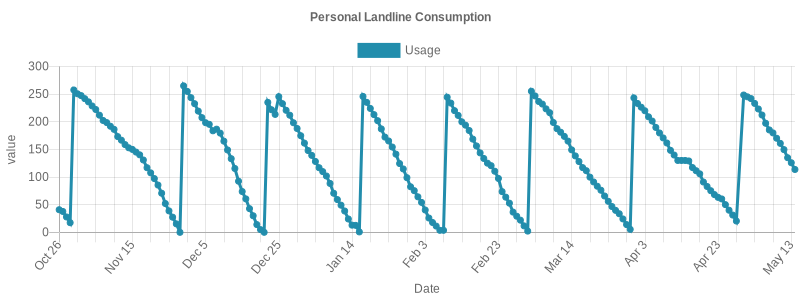
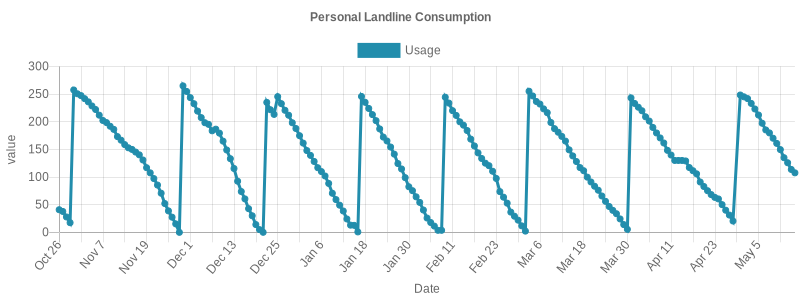
update logs

Changed region(s): [[0.0938, 0.24, 1.0, 0.9]]

diff --git a/quota-logs/README.md b/quota-logs/README.md
@@ -199,3 +199,4 @@
 ## Sun May 12 2024 00:35:13 GMT+0200|134.92/250
 ## Mon May 13 2024 00:34:49 GMT+0200|125.81/250
 ## Tue May 14 2024 00:34:47 GMT+0200|113.66/250
+## Wed May 15 2024 00:35:15 GMT+0200|107.58/250
